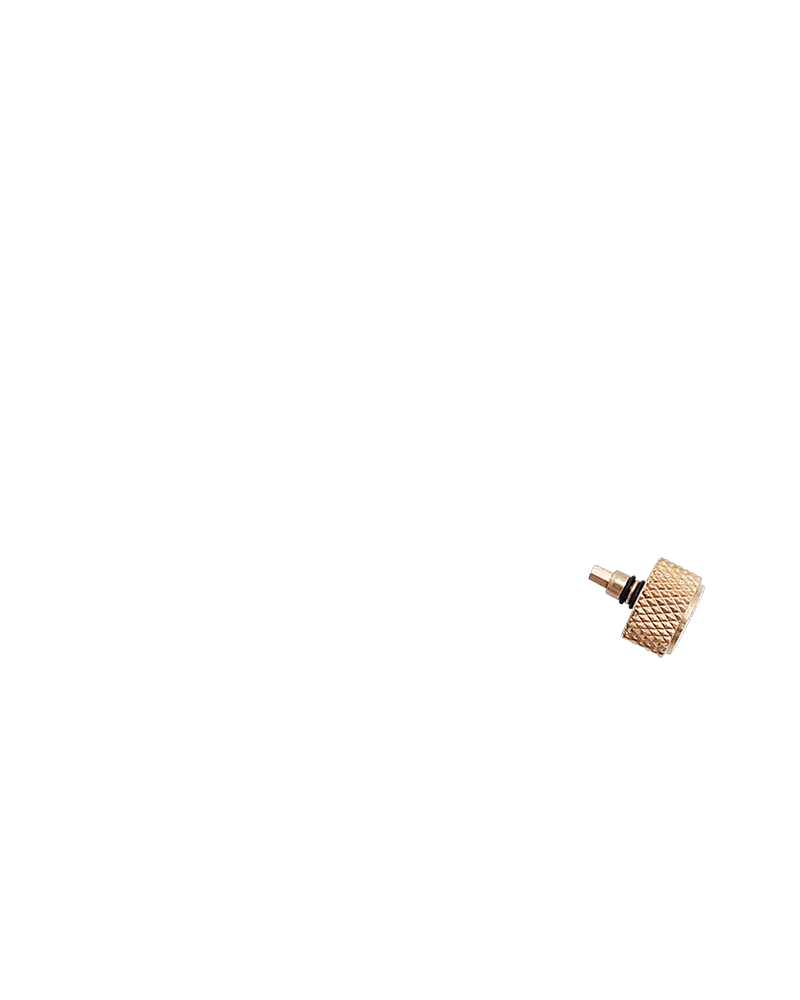
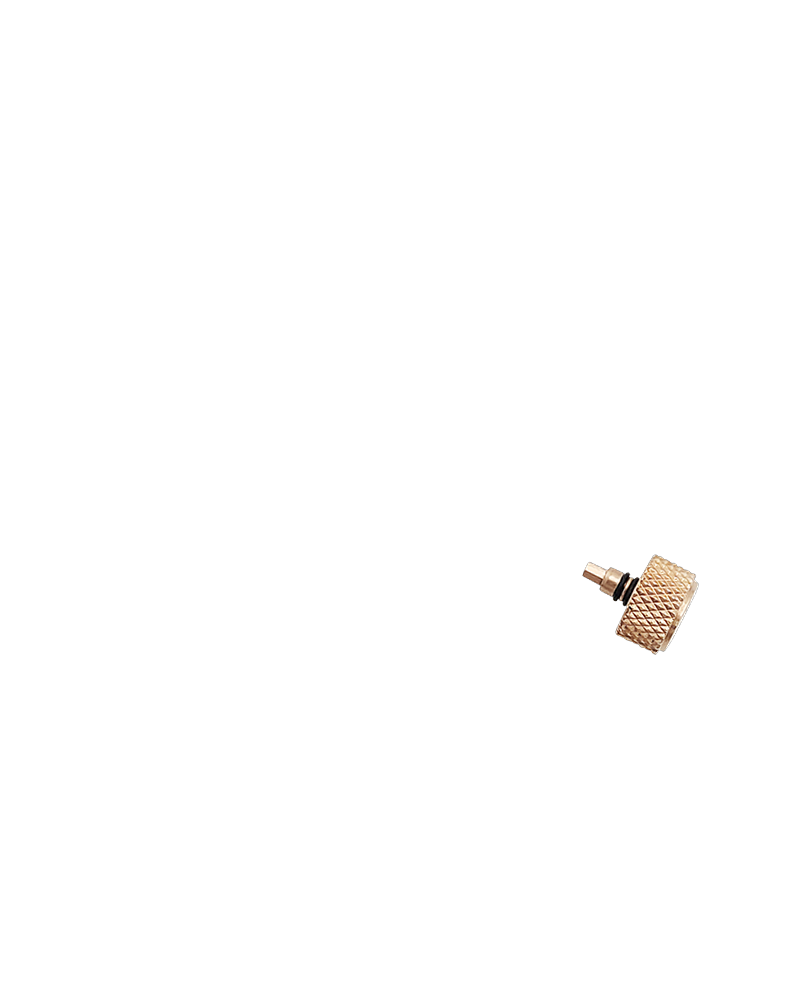
Seat the 3.8 crown head INTO the case's crown notch (PROTRUDE 44 -> 38)
The factory reference photo shows where the crown head really belongs: its
centre sits at t = 0.843 of the case outer radius, i.e. the head is nestled
in the middle of the case's crown notch, with the head spanning t 0.554..1.131.

Fitting a circle to the visible head silhouette of each render:

  reference         head centre t = 0.843   span 0.554 .. 1.131
  before (44)       head centre t = 0.920   span 0.690 .. 1.151   <- head sat outside
  after  (38)       head centre t = 0.844   span 0.564 .. 1.124

So the previous pass had the head pushed ~0.077 R (about 21px on the 800px
canvas) too far out - the head sat past the case edge instead of centred in
the notch. Dropping PROTRUDE to 38 lines all three numbers up.

Peak protrusion also lands on the reference: 0.129 R vs 0.128 R.

Changed region(s): [[0.7188, 0.558, 0.875, 0.682]]

diff --git a/tools/reposition_crown.py b/tools/reposition_crown.py
@@ -39,7 +39,11 @@ THUMB_DIR = os.path.join(OUT_DIR, 'thumb')
 
 # ---- placement parameters ---------------------------------------------------
 CASE = os.path.join(HERE, 'img/cases/skx38/SKX-B-1.png')
-PROTRUDE = 44          # px the crown head sticks out past the case edge (~0.15 R)
+PROTRUDE = 38          # px the crown head sticks out past the case edge (~0.13 R)
+# Calibrated against the factory reference photo: its crown head is centred at t=0.843
+# (a fraction of the case outer radius) with the head spanning t 0.554..1.131.
+# 38 reproduces that as 0.844 / 0.564..1.124. 44 put the head at 0.920 - i.e. the head
+# sat OUTSIDE the case's crown notch instead of nestled in its centre.
 THUMB = 256
 # -----------------------------------------------------------------------------
 
